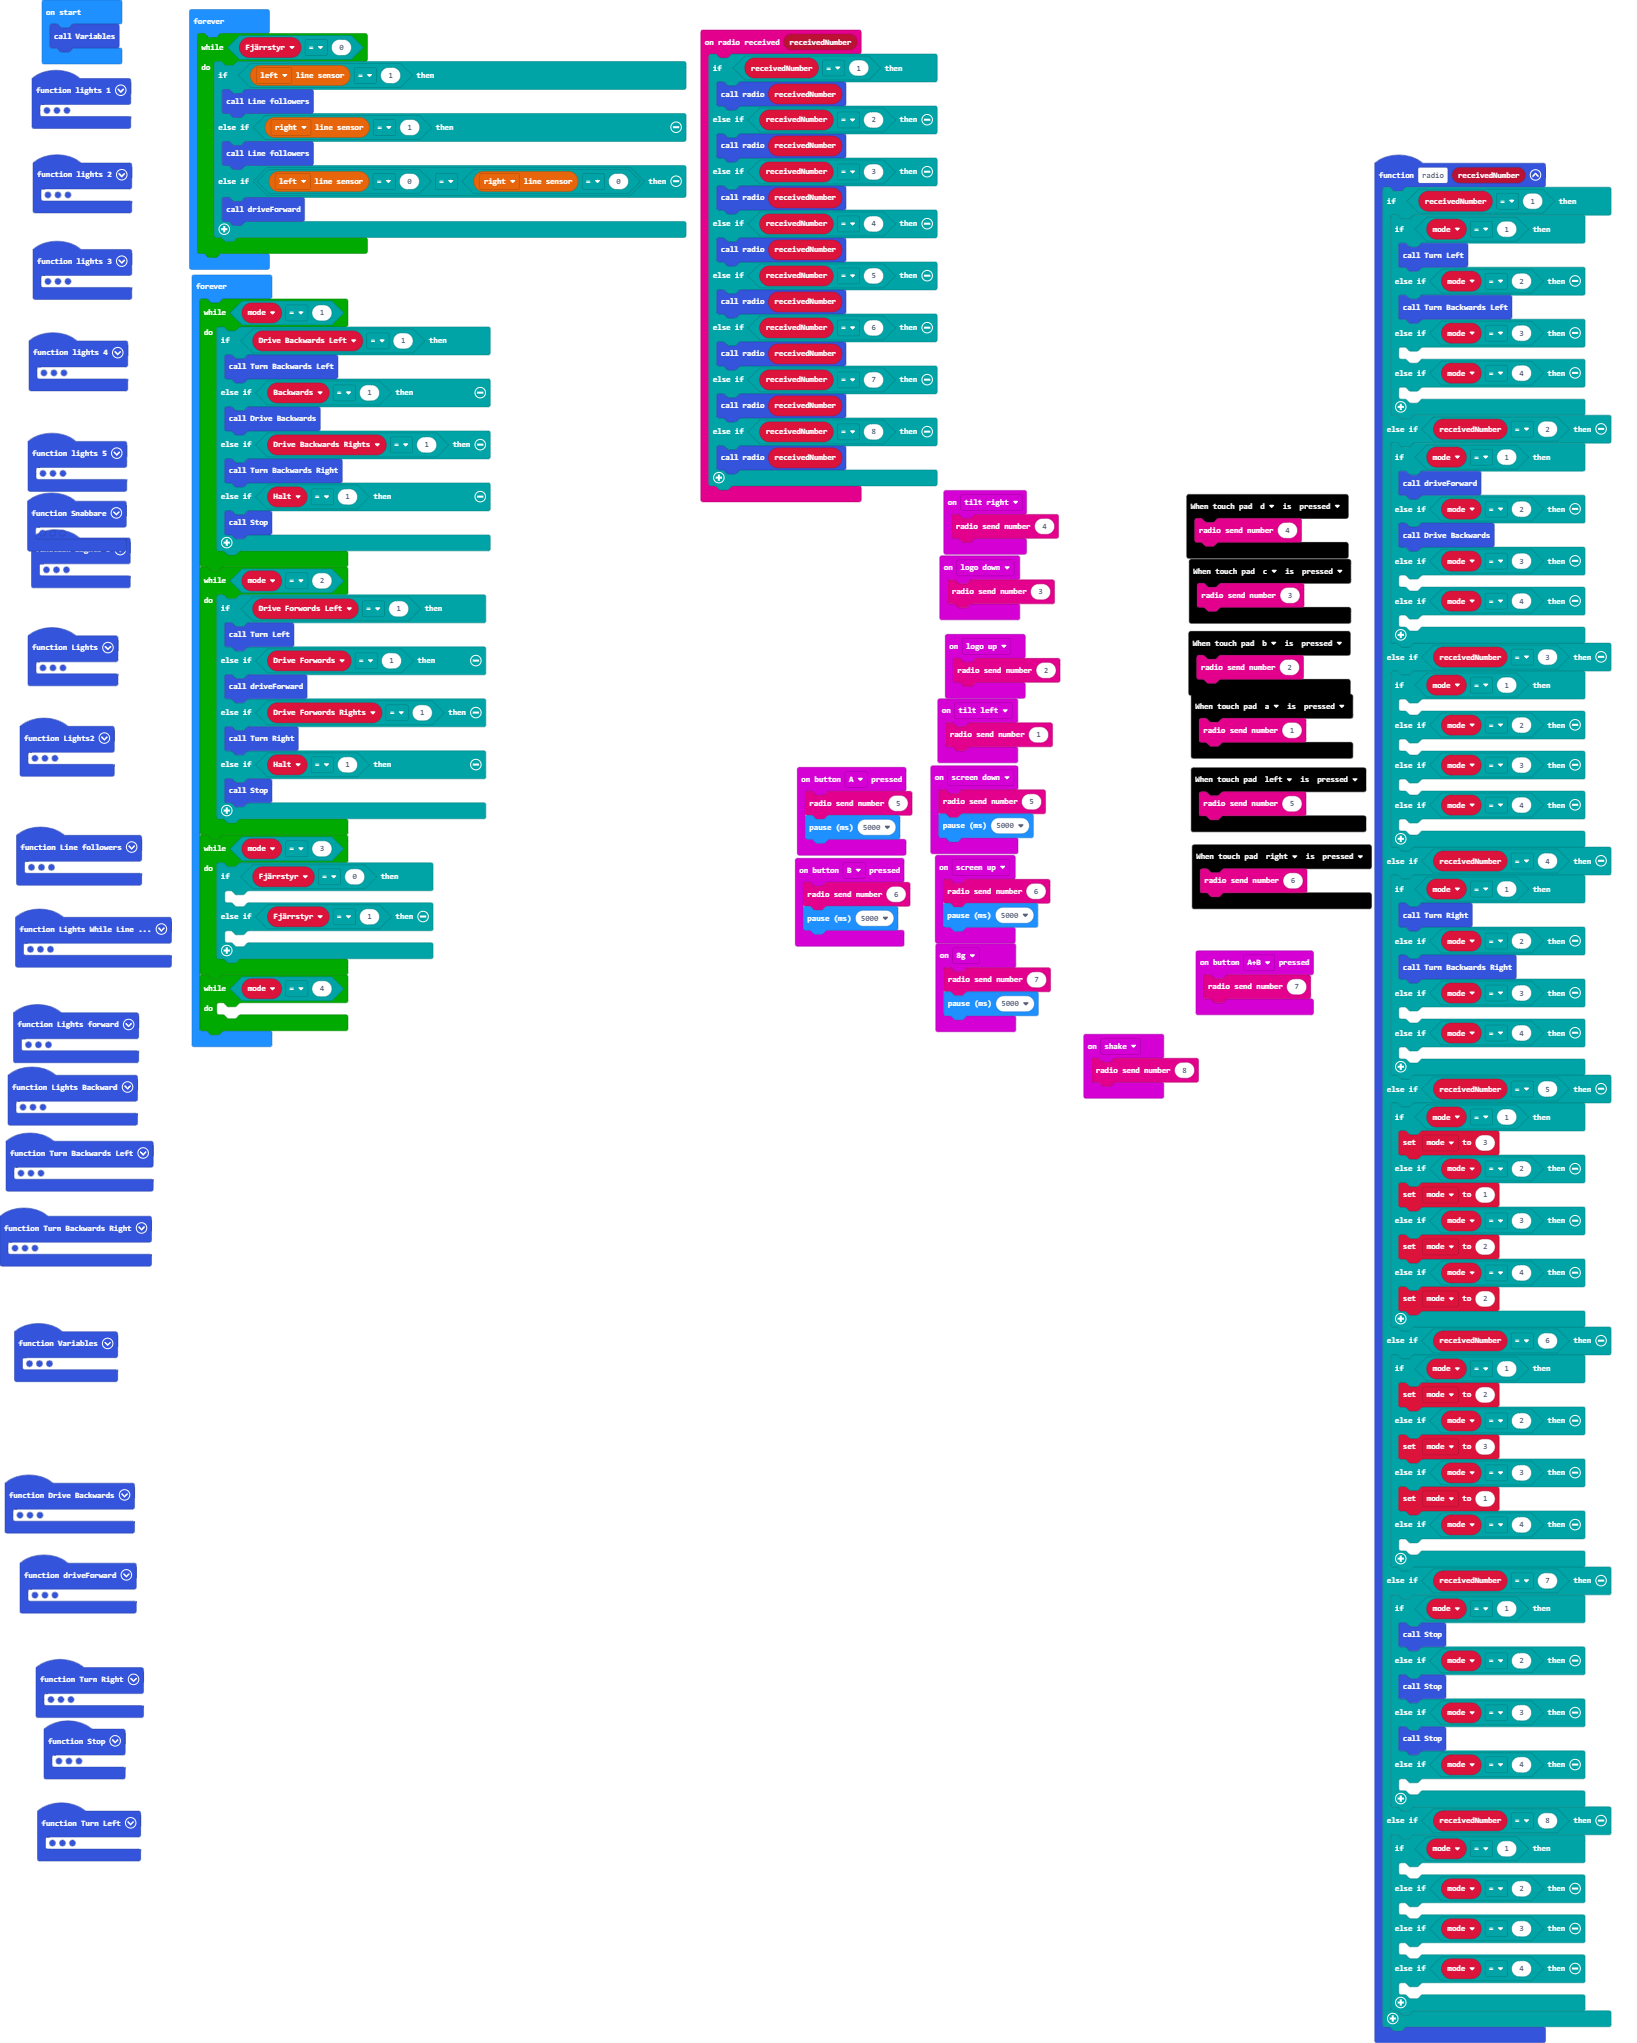
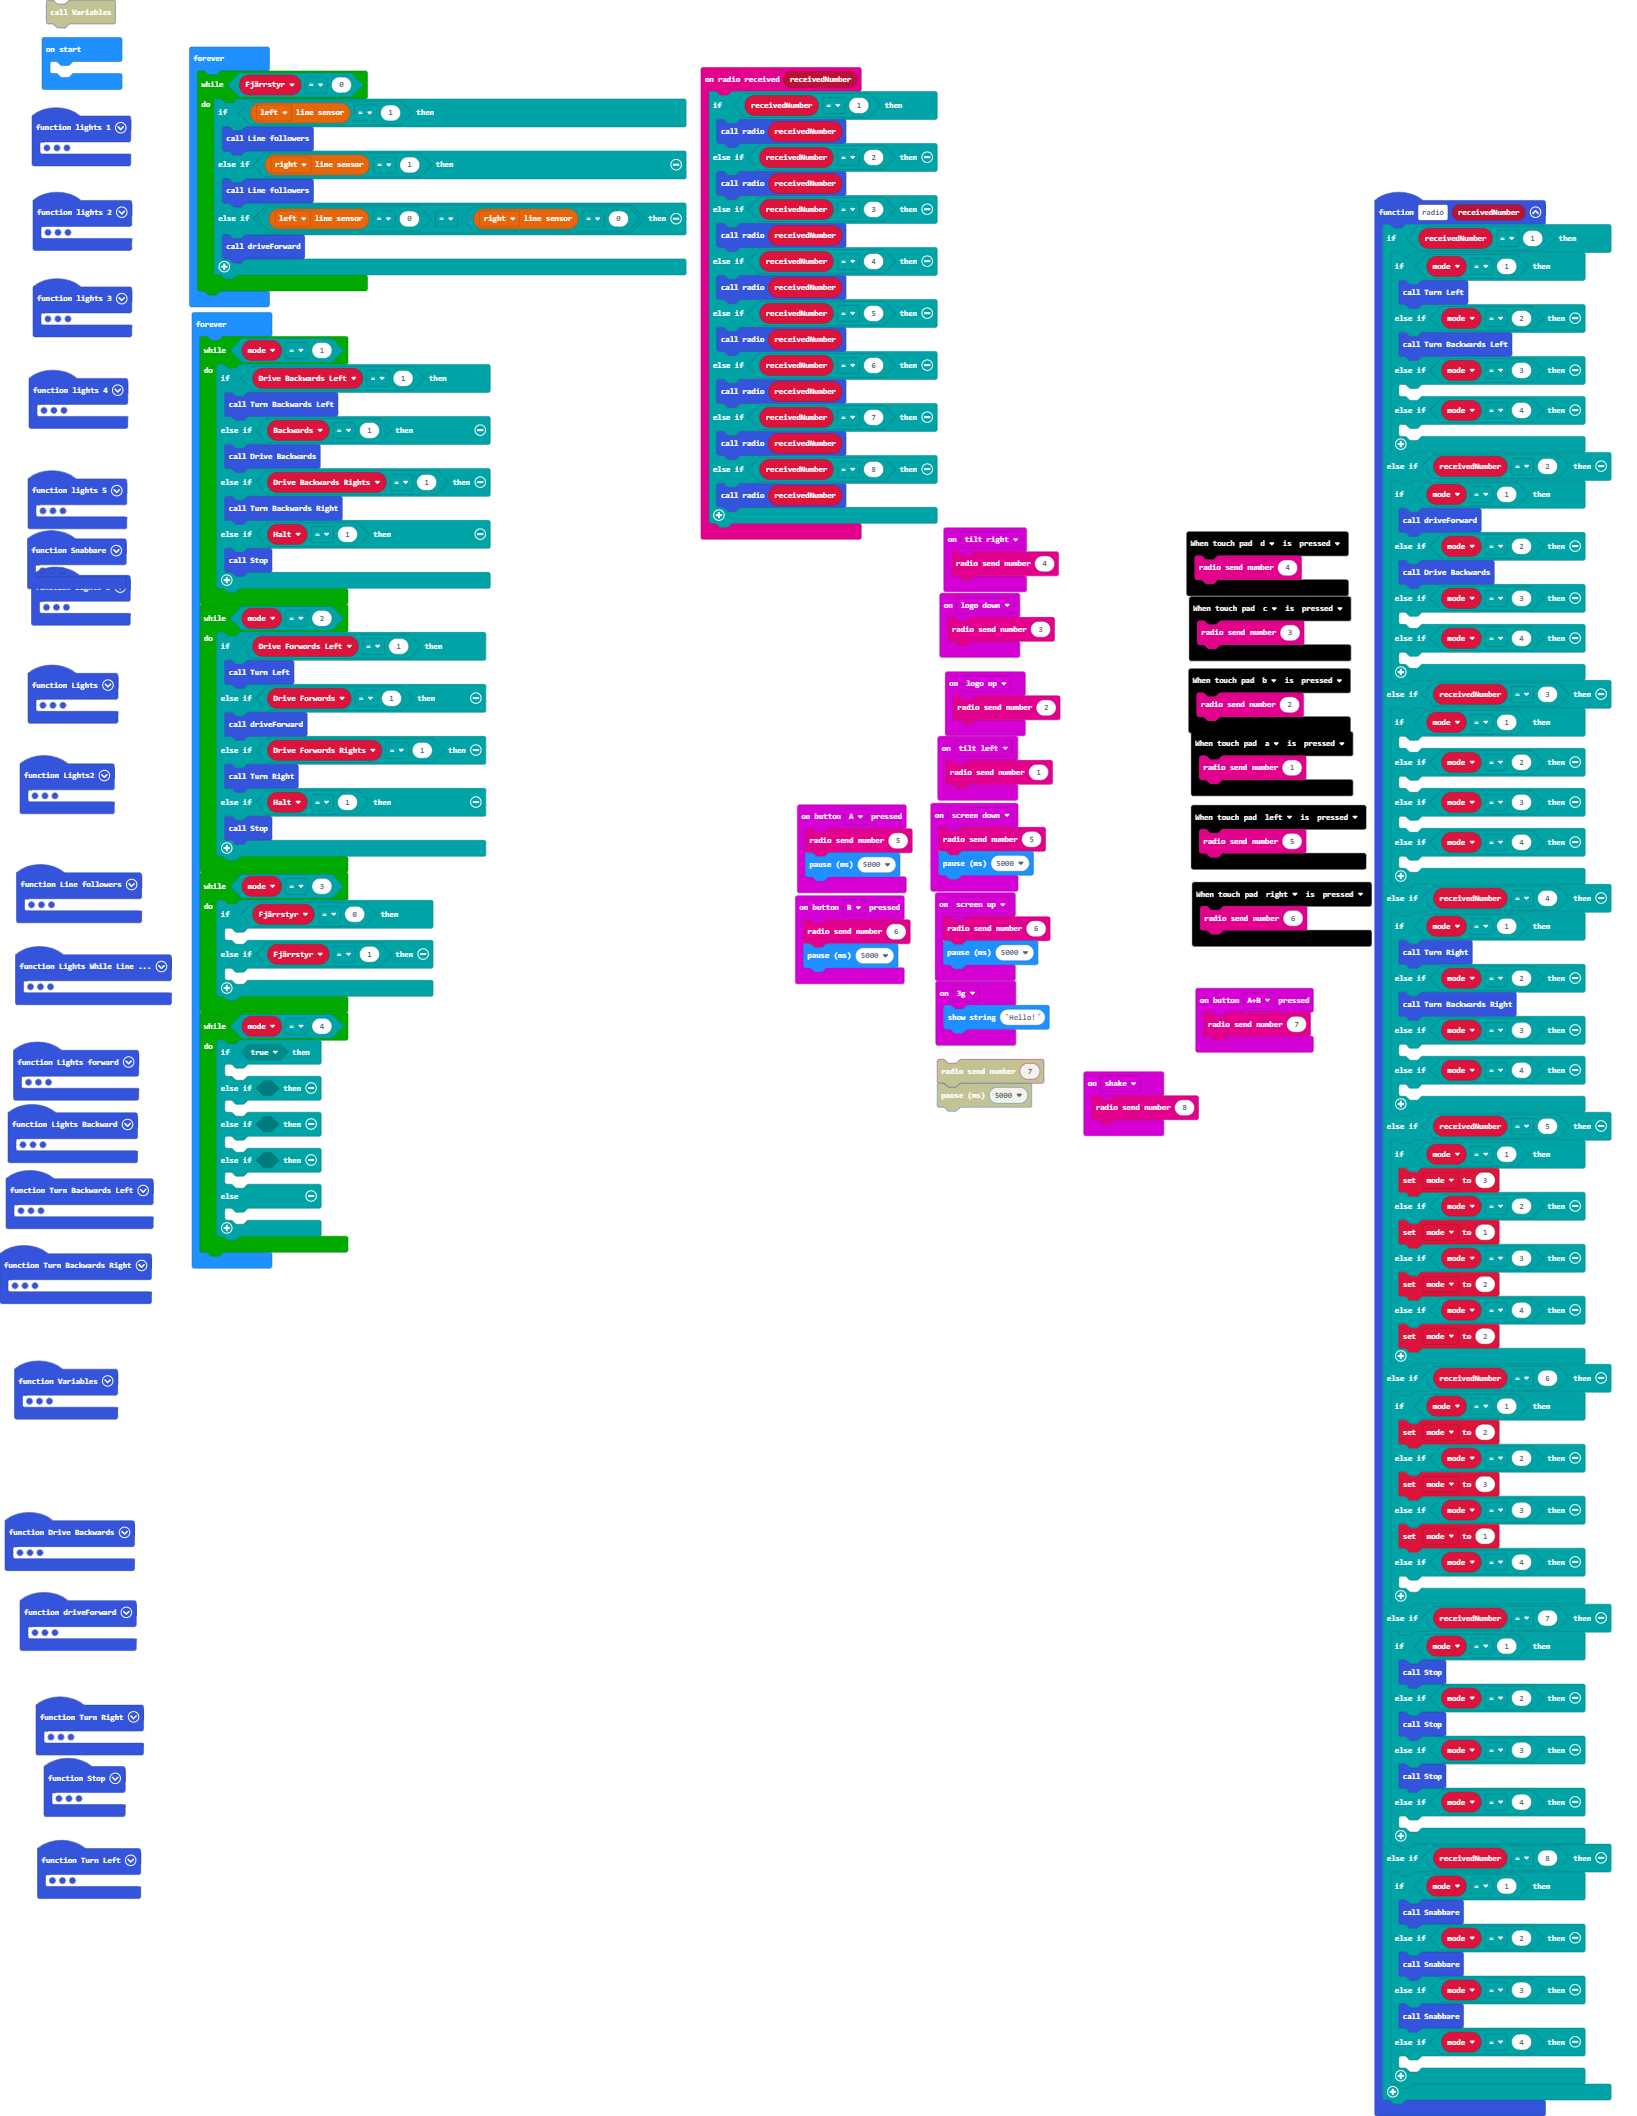
Update main.blocks, main.ts

Changed region(s): [[0.0, 0.0, 0.6542, 0.6784], [0.7166, 0.0617, 0.9969, 1.0], [0.0, 0.7093, 0.0935, 0.9251]]

diff --git a/main.ts b/main.ts
@@ -1,6 +1,17 @@
 enum RadioMessage {
     message1 = 49434
 }
+let Led = 0
+let mode = 0
+let Speed = 0
+let Drive_Backwards_Left = 0
+let Backwards = 0
+let Drive_Backwards_Rights = 0
+let Drive_Forwords_Left = 0
+let Drive_Forwords = 0
+let Drive_Forwords_Rights = 0
+let Halt = 0
+let Fjärrstyr = 0
 function Turn_Right () {
     bitbot.stop(BBStopMode.Brake)
     for (let index = 0; index < 2; index++) {
@@ -77,10 +88,6 @@ function lights_1 () {
 function Snabbare () {
     mode = Speed + 10
 }
-input.onGesture(Gesture.EightG, function () {
-    radio.sendNumber(7)
-    basic.pause(5000)
-})
 touchbit.on(touchbit.TouchPad.b, touchbit.TouchEvent.pressed, function () {
     radio.sendNumber(2)
 })
@@ -119,7 +126,7 @@ function Line_followers () {
             bitbot.driveTurnMilliseconds(BBRobotDirection.Right, 300, 45)
             Lights_While_Line_folowers_on()
         } else if (bitbot.readLine(BBLineSensor.Left) == 0 == (bitbot.readLight(BBLightSensor.Left) == 0)) {
-            bitbot.drive(400)
+            bitbot.drive(Speed)
         }
     }
 }
@@ -252,11 +259,11 @@ function radio2 (receivedNumber: number) {
         }
     } else if (receivedNumber == 8) {
         if (mode == 1) {
-        	
+            Snabbare()
         } else if (mode == 2) {
-        	
+            Snabbare()
         } else if (mode == 3) {
-        	
+            Snabbare()
         } else if (mode == 4) {
         	
         }
@@ -311,6 +318,9 @@ function lights_5 () {
 }
 touchbit.on(touchbit.TouchPad.a, touchbit.TouchEvent.pressed, function () {
     radio.sendNumber(1)
+})
+input.onGesture(Gesture.ThreeG, function () {
+    basic.showString("Hello!")
 })
 function Turn_Backwards_Left () {
     bitbot.stop(BBStopMode.Brake)
@@ -382,18 +392,6 @@ function Variables () {
     Speed = 10
     Fjärrstyr = 0
 }
-let Fjärrstyr = 0
-let Halt = 0
-let Drive_Forwords_Rights = 0
-let Drive_Forwords = 0
-let Drive_Forwords_Left = 0
-let Drive_Backwards_Rights = 0
-let Backwards = 0
-let Drive_Backwards_Left = 0
-let Speed = 0
-let mode = 0
-let Led = 0
-Variables()
 basic.forever(function () {
     while (Fjärrstyr == 0) {
         if (bitbot.readLine(BBLineSensor.Left) == 1) {
@@ -436,6 +434,16 @@ basic.forever(function () {
         }
     }
     while (mode == 4) {
-    	
+        if (true) {
+        	
+        } else if (false) {
+        	
+        } else if (false) {
+        	
+        } else if (false) {
+        	
+        } else {
+        	
+        }
     }
 })
